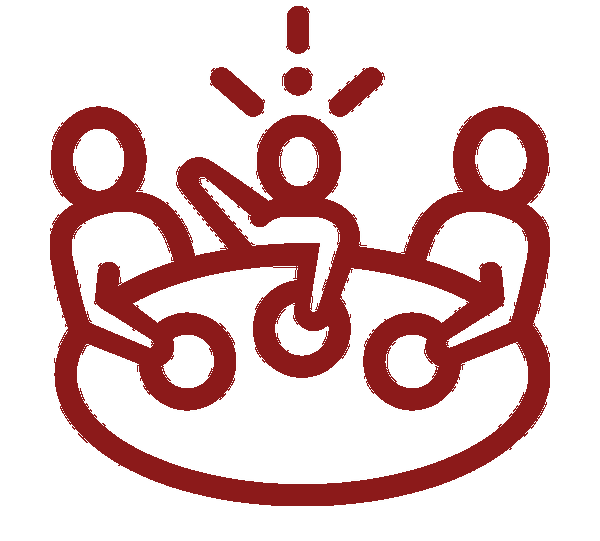
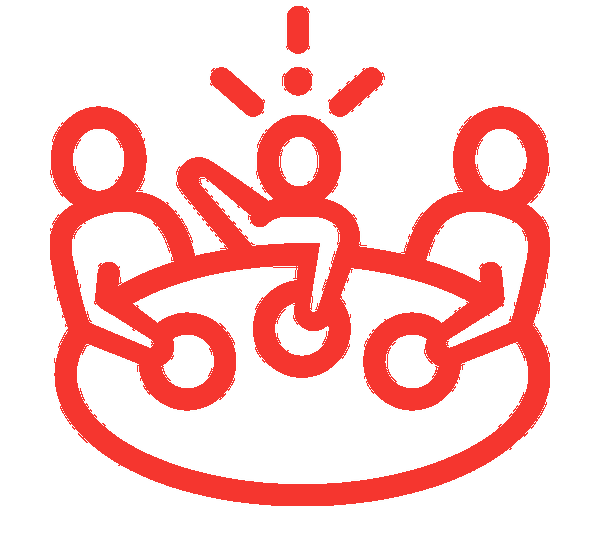
using navbar and with first version of home

Changed region(s): [[0.06, 0.0, 0.93, 0.9464]]

diff --git a/meteor/client/style/variables_bootstrap.import.less b/meteor/client/style/variables_bootstrap.import.less
@@ -14,7 +14,8 @@
 @gray-lighter:           lighten(#000, 93.5%); // #eee
 
 @orange:				#ff4526;
-@brand:					#8c1a1a;
+@brand:					#f5362f;
+//#8c1a1a;
 //#d20a00;
 
 @green-brand:			#427506;
@@ -340,13 +341,13 @@
 @navbar-padding-vertical:          ((@navbar-height - @line-height-computed) / 2);
 @navbar-collapse-max-height:       340px;
 
-@navbar-default-color:             #777;
-@navbar-default-bg:                #f8f8f8;
+@navbar-default-color:             #333;
+@navbar-default-bg:                rgba(255,255,255, 0.8);
 @navbar-default-border:            darken(@navbar-default-bg, 6.5%);
 
 // Navbar links
-@navbar-default-link-color:                #777;
-@navbar-default-link-hover-color:          #333;
+@navbar-default-link-color:                #333;
+@navbar-default-link-hover-color:          @brand;
 @navbar-default-link-hover-bg:             transparent;
 @navbar-default-link-active-color:         #555;
 @navbar-default-link-active-bg:            darken(@navbar-default-bg, 6.5%);
@@ -366,13 +367,13 @@
 
 // Inverted navbar
 // Reset inverted navbar basics
-@navbar-inverse-color:                      @gray-light;
-@navbar-inverse-bg:                         #222;
+@navbar-inverse-color:                      #fff;
+@navbar-inverse-bg:                         transparent;
 @navbar-inverse-border:                     darken(@navbar-inverse-bg, 10%);
 
 // Inverted navbar links
-@navbar-inverse-link-color:                 @gray-light;
-@navbar-inverse-link-hover-color:           #fff;
+@navbar-inverse-link-color:                 #fff;
+@navbar-inverse-link-hover-color:           @brand;
 @navbar-inverse-link-hover-bg:              transparent;
 @navbar-inverse-link-active-color:          @navbar-inverse-link-hover-color;
 @navbar-inverse-link-active-bg:             darken(@navbar-inverse-bg, 10%);
@@ -382,11 +383,13 @@
 // Inverted navbar brand label
 @navbar-inverse-brand-color:                @navbar-inverse-link-color;
 @navbar-inverse-brand-hover-color:          #fff;
-@navbar-inverse-brand-hover-bg:             transparent;
+@navbar-inverse-brand-hover-bg:             #333;
 
 // Inverted navbar toggle
+@navbar-inverse-toggle-bg:					#333;
 @navbar-inverse-toggle-hover-bg:            #333;
-@navbar-inverse-toggle-icon-bar-bg:         #fff;
+@navbar-inverse-toggle-link-active-bg:      #333;
+@navbar-inverse-toggle-icon-bar-bg:         @brand;
 @navbar-inverse-toggle-border-color:        #333;
 
 
@@ -710,7 +713,7 @@
 //** Thumbnail background color
 @thumbnail-bg:                @body-bg;
 //** Thumbnail border color
-@thumbnail-border:            #ddd;
+@thumbnail-border:            #fff;
 //** Thumbnail border radius
 @thumbnail-border-radius:     @border-radius-base;
 

diff --git a/meteor/client/home.html b/meteor/client/home.html
@@ -1,0 +1,44 @@
+<template name="home">
+	<div style="background:#f1f1f1;">
+	<br/>
+	<br/>
+	<br/>
+	<div class="row">
+		<div class="col-md-10 col-md-offset-1 col-xs-10 col-xs-offset-1">
+			<br/>
+			{{#each dish}}
+			<div class="col-md-4 col-md-offset-0 col-xs-10 col-xs-offset-1">
+			{{>dishThumbnail}}
+		</div>
+			{{else}}
+			<h3>Ningun platillo</h3>
+			{{/each}}
+		</div>
+	</div>
+</div>
+</template>
+
+<template name="dishThumbnail">
+<div class="thumbnail" style="z-index: 5; -webkit-box-shadow: 5px 5px 5px 0px rgba(15,15,15,0.75);
+-moz-box-shadow: 5px 5px 5px 0px rgba(15,15,15,0.75);
+box-shadow: 5px 5px 5px 0px rgba(15,15,15,0.75);">
+		<a target="_newtab" class="companyLink" href="#">
+			<img class="img-responsive" width="100%" style="height: 235px;" src="full.jpg">
+		</a>
+	<span class="thumbText " style="display:inline-block;">
+		<h4 class="text-center">
+			Nombre de platillo
+		</h4>
+		<span>
+	<a target="_newtab" class="companyLink" href="#">
+		<div class="box">
+		<div class="text">
+		<h5 style="margin: 8px; font-size:16px;" class="text-justify">De: asdf Para:adaf</h5>
+	</div>
+</div>
+</a>
+</span>
+	</span>
+</div>
+
+</template>

diff --git a/meteor/client/navigation.html b/meteor/client/navigation.html
@@ -1,0 +1,31 @@
+<template name="navigation">
+<!-- Fixed navbar -->
+<div class="navbar navbar-default navbar-fixed-top" role="navigation">
+  <div class="row">
+    <div class=" col-md-10 col-md-offset-1">
+      <div class="navbar-header">
+        <button type="button" class="navbar-toggle" data-toggle="collapse" data-target=".navbar-collapse">
+        <span class="sr-only">Toggle navigation</span>
+        <span class="icon-bar"></span>
+        <span class="icon-bar"></span>
+        <span class="icon-bar"></span>
+        </button>
+        <h2 style="color:#f5362f;">feedthank</h2>
+        
+    </div>
+    
+      <div class="navbar-collapse collapse h navbar-right">
+        <ul class="nav navbar-nav">
+          <li><a href="{{pathFor 'home'}}">Platillos</a></li>
+           {{#if currentUser}}
+          <li><a href="#" class="tryLogout">Salir</a></li>
+          {{else}}
+          <li><a href="{{pathFor 'newCostumer'}}">Ingresar</a></li>
+          <li><a href="{{pathFor 'newCostumer'}}">Registrarme</a></li>
+          {{/if}}
+        </ul>
+        </div><!--/.nav-collapse -->
+      </div>
+    </div>
+  </div>
+  </template>

diff --git a/meteor/client/home.js b/meteor/client/home.js
@@ -1,0 +1,56 @@
+
+ Template.home.helpers({
+  dish: function()
+  {
+    return Dishes.find({});
+  },
+
+  image: function(ids)
+        {
+          if (typeof (ids) == 'object')
+          return Images.find({_id:{$in: ids}});
+          else
+          {
+            //alert(typeof (ids)) string
+            return Images.find({_id:ids})
+          }
+          
+        },
+    
+
+ })
+
+Template.dishThumbnail.rendered = function()
+ {
+
+  var maxHeight = 0;
+  $('.thumbText').each(function(){
+        var h = $(this).height();
+        if(h > maxHeight)
+        {
+          //alert(h);
+          maxHeight = h;
+        }
+    });
+  $('.thumbText').each(function(){
+        $(this).css('height',maxHeight);
+    });
+}
+
+
+Template.dishThumbnail.helpers({
+
+
+    image: function(ids)
+        {
+          //alert(ids);
+          if (typeof (ids) == 'object')
+          return Images.find({_id:{$in: ids}});
+          else
+          {
+            //alert(typeof (ids)) string
+            return Images.find({_id:ids})
+          }
+          
+        },
+})

diff --git a/meteor/client/main.html b/meteor/client/main.html
@@ -3,19 +3,15 @@
 	<title>Feedthank</title>
 </head>
 <body>
+	{{>navigation}}
 </body>
 <template name="pitch">
 <div class="top-section">
-<div class="row">
-	<div class="col-sm-3">
-		<h1>feedthank</h1>
-	</div>
-</div>
 <div>
-	<div  class="row"  style="margin-top:30px;">
-		<div style="background:rgba(0, 0, 0, 0.7); padding:5px;" class="col-xs-offset-2 col-xs-8 text-center">
-			<h1 style="font-size:50px;"><b>Cocina con dedicatoria</b></h1>
-			<h3>Expresa la historia de tus platillos</h3>
+	<div  class="row">
+		<div style="background:rgba(0, 0, 0, 0.7); margin-top:100px; padding:5px;" class="col-xs-offset-2 col-xs-8 text-center">
+			<h1 style="font-size:55px;"><b>Cocina con dedicatoria</b></h1>
+			<h3>Cuenta la historia de tus platillos</h3>
 			<button type="submit" class="btn-lg btn-default">Comenzar</button>
 		</div>
 	</div>

diff --git a/meteor/config.js b/meteor/config.js
@@ -1,0 +1,20 @@
+  //MongoDB
+Dishes = new Meteor.Collection("dishes");
+
+//File Storage in MongoDb using FS
+var imageStore = new FS.Store.GridFS("images");
+Images = new FS.Collection("images", {
+  stores: [imageStore],
+  filter: {
+      allow: {
+        contentTypes: ['image/*'] //allow only images in this FS.Collection
+      }
+    }
+});
+
+  Router.map(function() {
+  this.route('pitch', {path:'/'});
+  this.route('home', {path:'/home'})
+  this.route('newCostumer', {path: '/registro'});
+  }
+  );

diff --git a/meteor/client/main.js b/meteor/client/main.js
@@ -1,0 +1,15 @@
+Meteor.startup(function () {
+//Redirect www to ROOT URL in meteor
+if(window.location.hostname.search('www') != -1)
+  window.location.assign("http://feedthank.com");
+//Meteor.subscribe("allDishes");
+
+});
+
+
+  Template.pitch.events({
+
+    'click button': function () {
+      Router.go('newCostumer');
+    }
+  });

diff --git a/meteor/server/meteor.js b/meteor/server/meteor.js
@@ -1,4 +1,4 @@
-
-  Meteor.startup(function () {
-    // code to run on server at startup
-  });
+/*Meteor.publish('allDishes', function()
+  {
+    return Dishes.find({});
+  });*/

diff --git a/meteor/client/style/style.less b/meteor/client/style/style.less
@@ -15,6 +15,7 @@
 /* CSS declarations go here */
 
 body {
+	z-index: 1;
 	height:100%;
 	background:transparent;
 	line-height: 1.5em;

diff --git a/README.md b/README.md
@@ -1,1 +1,3 @@
 # feedthank
+
+brand color: #f5362f;
